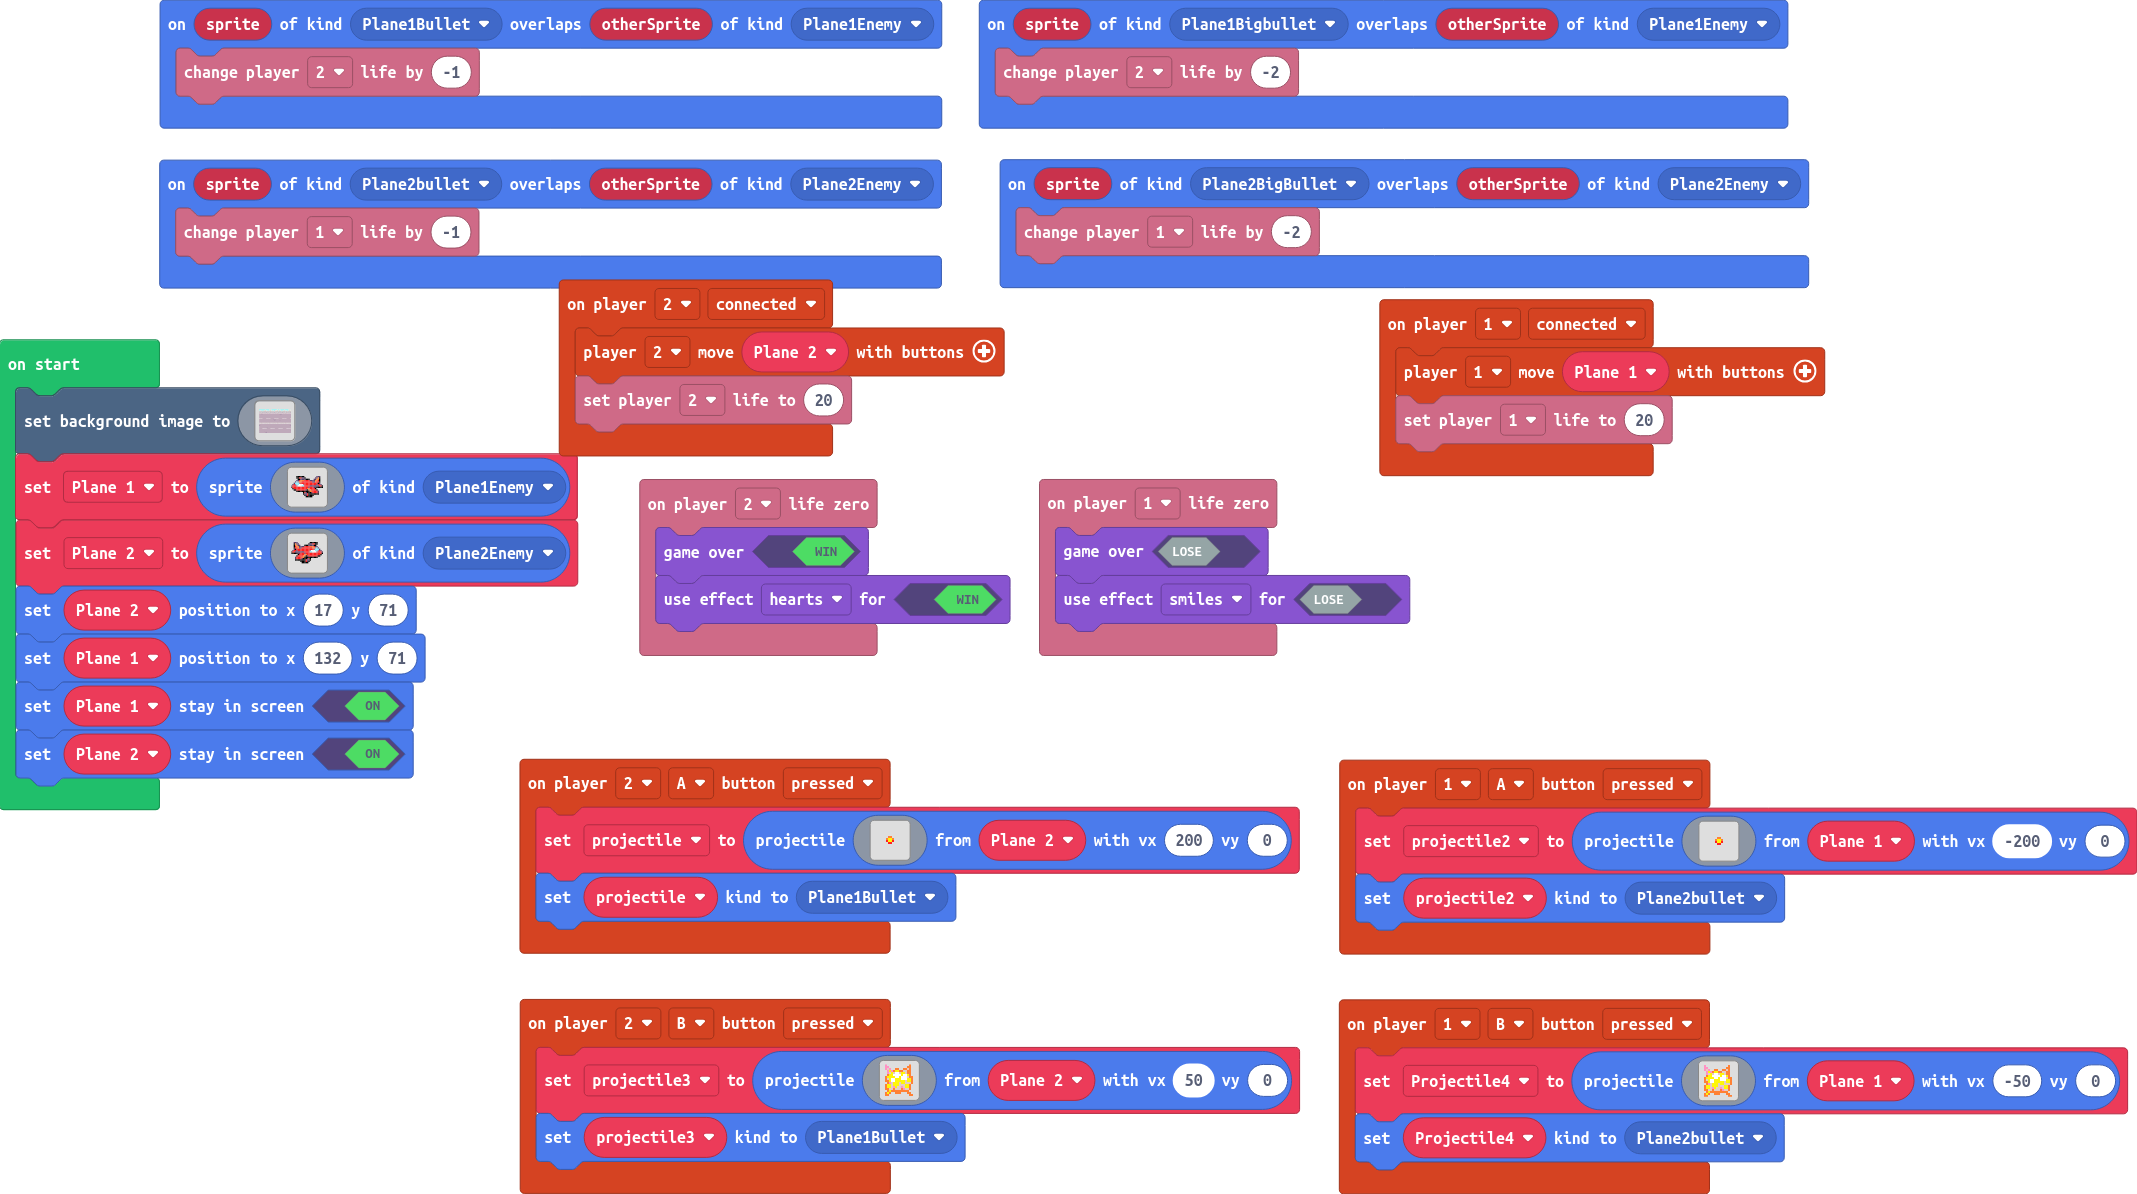
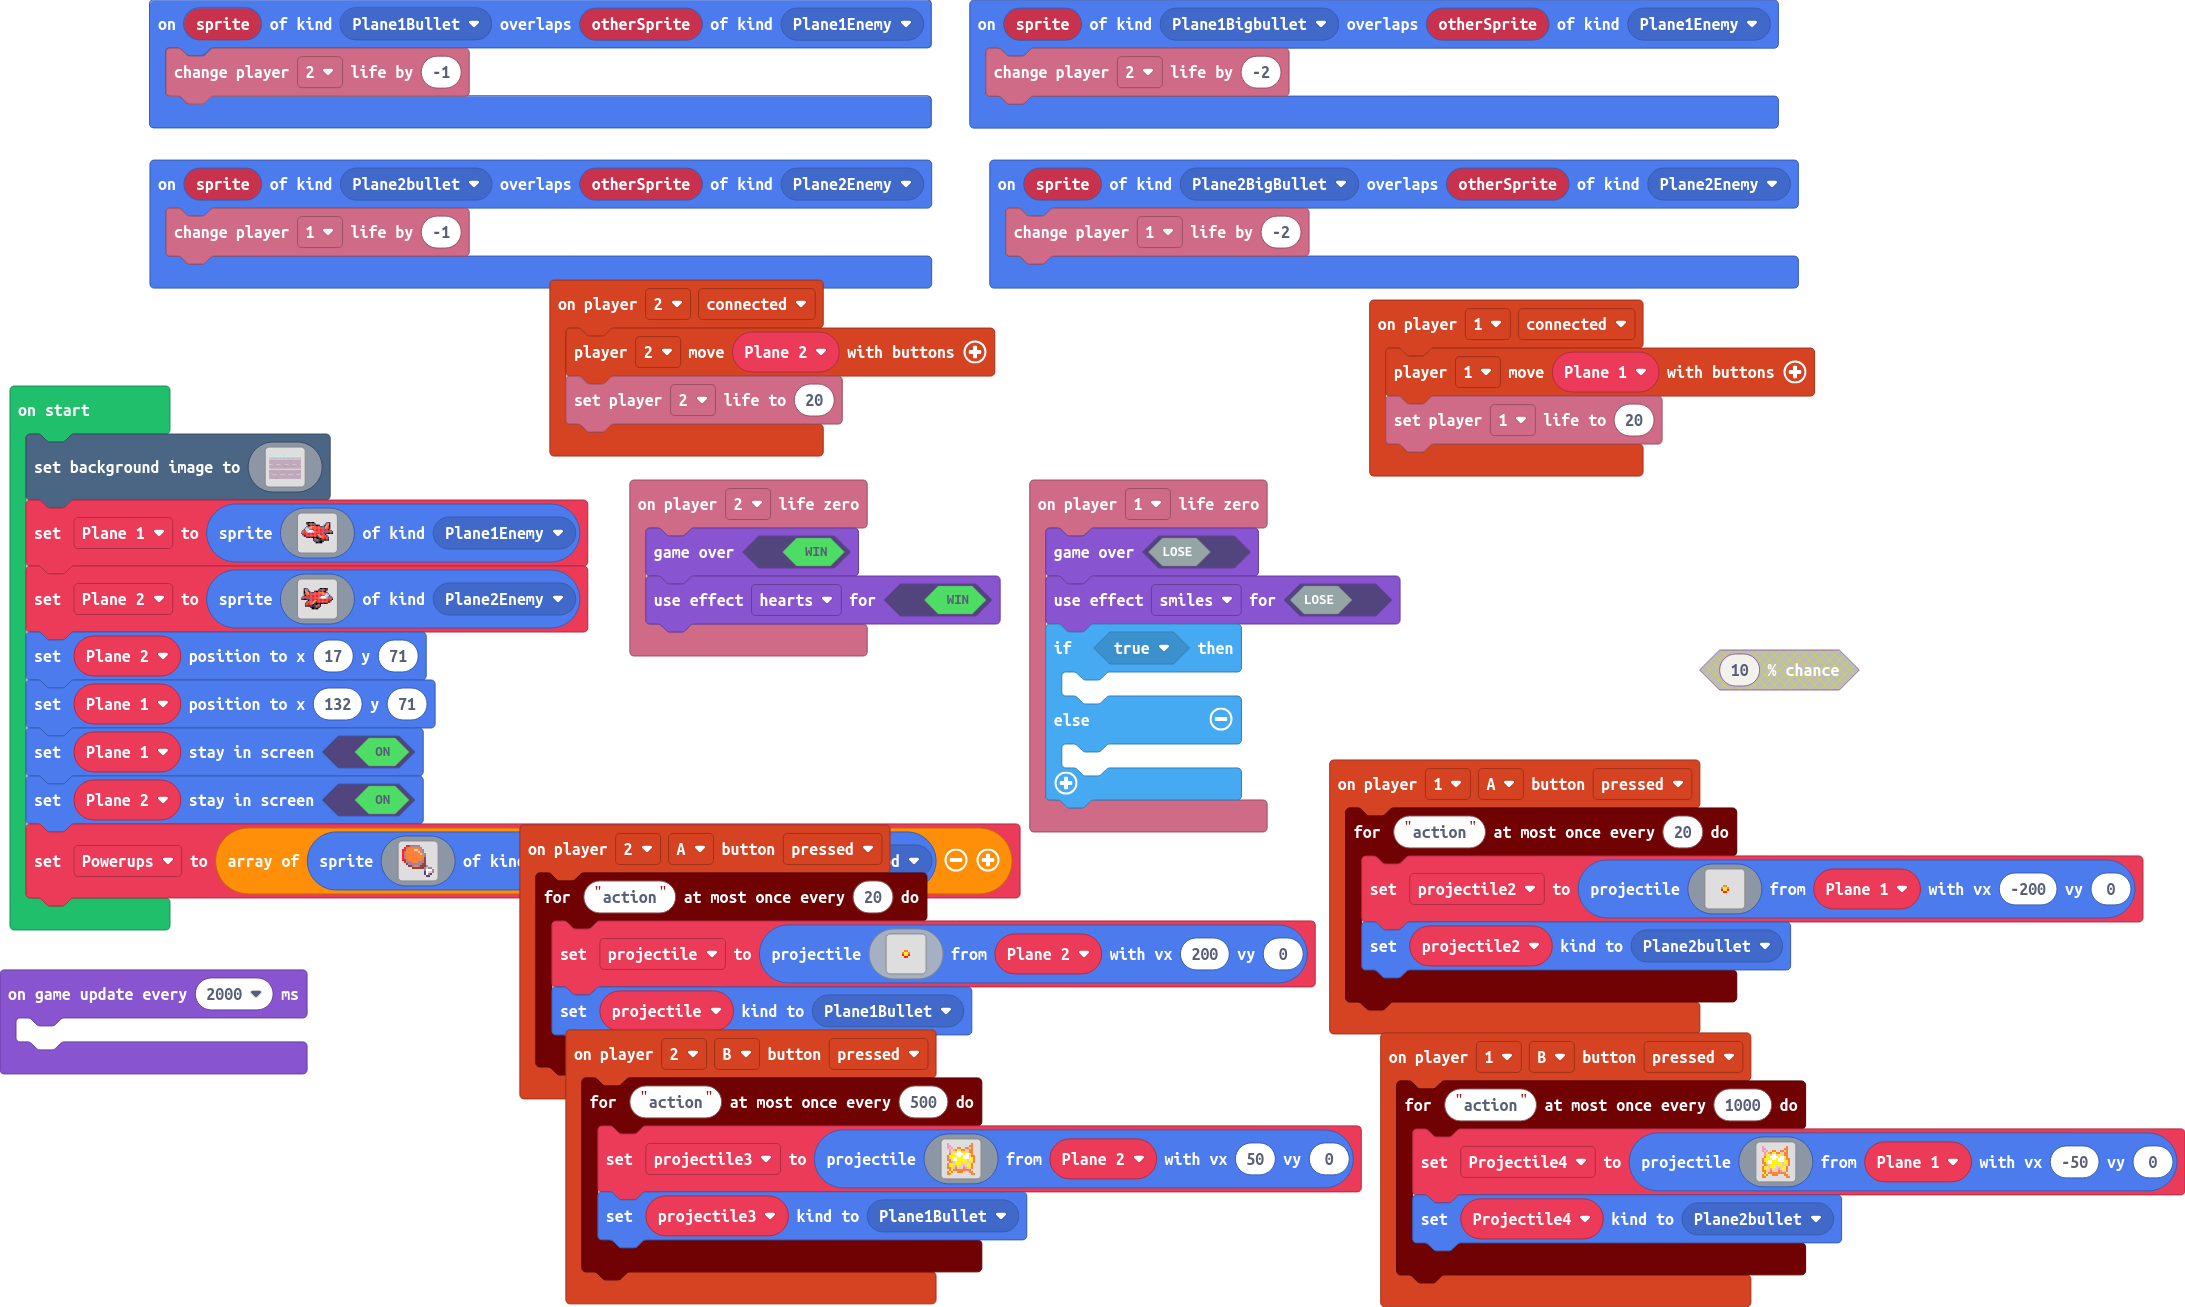
Update pxt.json, main.blocks, main.ts

diff --git a/main.ts b/main.ts
@@ -7,77 +7,88 @@ namespace SpriteKind {
     export const Plane2BigBullet = SpriteKind.create()
 }
 controller.player2.onButtonEvent(ControllerButton.B, ControllerButtonEvent.Pressed, function () {
-    projectile3 = sprites.createProjectileFromSprite(img`
-        . 3 . . . . . . . . . . . 4 . . 
-        . 3 3 . . . . . . . . . 4 4 . . 
-        . 3 d 3 . . 4 4 . . 4 4 d 4 . . 
-        . . 3 5 3 4 5 5 4 4 d d 4 4 . . 
-        . . 3 d 5 d 1 1 d 5 5 d 4 4 . . 
-        . . 4 5 5 1 1 1 1 5 1 1 5 4 . . 
-        . 4 5 5 5 5 1 1 5 1 1 1 d 4 4 . 
-        . 4 d 5 1 1 5 5 5 1 1 1 5 5 4 . 
-        . 4 4 5 1 1 5 5 5 5 5 d 5 5 4 . 
-        . . 4 3 d 5 5 5 d 5 5 d d d 4 . 
-        . 4 5 5 d 5 5 5 d d d 5 5 4 . . 
-        . 4 5 5 d 3 5 d d 3 d 5 5 4 . . 
-        . 4 4 d d 4 d d d 4 3 d d 4 . . 
-        . . 4 5 4 4 4 4 4 4 4 4 4 . . . 
-        . 4 5 4 . . 4 4 4 . . . 4 4 . . 
-        . 4 4 . . . . . . . . . . 4 4 . 
-        `, Plane_2, 50, 0)
-    projectile3.setKind(SpriteKind.Plane1Bullet)
+    timer.throttle("action", 500, function () {
+        projectile3 = sprites.createProjectileFromSprite(img`
+            . 3 . . . . . . . . . . . 4 . . 
+            . 3 3 . . . . . . . . . 4 4 . . 
+            . 3 d 3 . . 4 4 . . 4 4 d 4 . . 
+            . . 3 5 3 4 5 5 4 4 d d 4 4 . . 
+            . . 3 d 5 d 1 1 d 5 5 d 4 4 . . 
+            . . 4 5 5 1 1 1 1 5 1 1 5 4 . . 
+            . 4 5 5 5 5 1 1 5 1 1 1 d 4 4 . 
+            . 4 d 5 1 1 5 5 5 1 1 1 5 5 4 . 
+            . 4 4 5 1 1 5 5 5 5 5 d 5 5 4 . 
+            . . 4 3 d 5 5 5 d 5 5 d d d 4 . 
+            . 4 5 5 d 5 5 5 d d d 5 5 4 . . 
+            . 4 5 5 d 3 5 d d 3 d 5 5 4 . . 
+            . 4 4 d d 4 d d d 4 3 d d 4 . . 
+            . . 4 5 4 4 4 4 4 4 4 4 4 . . . 
+            . 4 5 4 . . 4 4 4 . . . 4 4 . . 
+            . 4 4 . . . . . . . . . . 4 4 . 
+            `, Plane_2, 50, 0)
+        projectile3.setKind(SpriteKind.Plane1Bullet)
+    })
 })
 sprites.onOverlap(SpriteKind.Plane1Bullet, SpriteKind.Plane1Enemy, function (sprite, otherSprite) {
     info.player2.changeLifeBy(-1)
 })
 controller.player2.onButtonEvent(ControllerButton.A, ControllerButtonEvent.Pressed, function () {
-    projectile = sprites.createProjectileFromSprite(img`
-        . . . . . . . . . . . . . . . . 
-        . . . . . . . . . . . . . . . . 
-        . . . . . . . . . . . . . . . . 
-        . . . . . . . . . . . . . . . . 
-        . . . . . . . . . . . . . . . . 
-        . . . . . . . . . . . . . . . . 
-        . . . . . . . 4 4 . . . . . . . 
-        . . . . . . 4 5 5 4 . . . . . . 
-        . . . . . . 2 5 5 2 . . . . . . 
-        . . . . . . . 2 2 . . . . . . . 
-        . . . . . . . . . . . . . . . . 
-        . . . . . . . . . . . . . . . . 
-        . . . . . . . . . . . . . . . . 
-        . . . . . . . . . . . . . . . . 
-        . . . . . . . . . . . . . . . . 
-        . . . . . . . . . . . . . . . . 
-        `, Plane_2, 200, 0)
-    projectile.setKind(SpriteKind.Plane1Bullet)
+    timer.throttle("action", 20, function () {
+        projectile = sprites.createProjectileFromSprite(img`
+            . . . . . . . . . . . . . . . . 
+            . . . . . . . . . . . . . . . . 
+            . . . . . . . . . . . . . . . . 
+            . . . . . . . . . . . . . . . . 
+            . . . . . . . . . . . . . . . . 
+            . . . . . . . . . . . . . . . . 
+            . . . . . . . 4 4 . . . . . . . 
+            . . . . . . 4 5 5 4 . . . . . . 
+            . . . . . . 2 5 5 2 . . . . . . 
+            . . . . . . . 2 2 . . . . . . . 
+            . . . . . . . . . . . . . . . . 
+            . . . . . . . . . . . . . . . . 
+            . . . . . . . . . . . . . . . . 
+            . . . . . . . . . . . . . . . . 
+            . . . . . . . . . . . . . . . . 
+            . . . . . . . . . . . . . . . . 
+            `, Plane_2, 200, 0)
+        projectile.setKind(SpriteKind.Plane1Bullet)
+    })
 })
 sprites.onOverlap(SpriteKind.Plane2BigBullet, SpriteKind.Plane2Enemy, function (sprite, otherSprite) {
     info.player1.changeLifeBy(-2)
 })
 controller.player1.onButtonEvent(ControllerButton.A, ControllerButtonEvent.Pressed, function () {
-    projectile2 = sprites.createProjectileFromSprite(img`
-        . . . . . . . . . . . . . . . . 
-        . . . . . . . . . . . . . . . . 
-        . . . . . . . . . . . . . . . . 
-        . . . . . . . . . . . . . . . . 
-        . . . . . . . . . . . . . . . . 
-        . . . . . . . . . . . . . . . . 
-        . . . . . . . 4 4 . . . . . . . 
-        . . . . . . 4 5 5 4 . . . . . . 
-        . . . . . . 2 5 5 2 . . . . . . 
-        . . . . . . . 2 2 . . . . . . . 
-        . . . . . . . . . . . . . . . . 
-        . . . . . . . . . . . . . . . . 
-        . . . . . . . . . . . . . . . . 
-        . . . . . . . . . . . . . . . . 
-        . . . . . . . . . . . . . . . . 
-        . . . . . . . . . . . . . . . . 
-        `, Plane_1, -200, 0)
-    projectile2.setKind(SpriteKind.Plane2bullet)
+    timer.throttle("action", 20, function () {
+        projectile2 = sprites.createProjectileFromSprite(img`
+            . . . . . . . . . . . . . . . . 
+            . . . . . . . . . . . . . . . . 
+            . . . . . . . . . . . . . . . . 
+            . . . . . . . . . . . . . . . . 
+            . . . . . . . . . . . . . . . . 
+            . . . . . . . . . . . . . . . . 
+            . . . . . . . 4 4 . . . . . . . 
+            . . . . . . 4 5 5 4 . . . . . . 
+            . . . . . . 2 5 5 2 . . . . . . 
+            . . . . . . . 2 2 . . . . . . . 
+            . . . . . . . . . . . . . . . . 
+            . . . . . . . . . . . . . . . . 
+            . . . . . . . . . . . . . . . . 
+            . . . . . . . . . . . . . . . . 
+            . . . . . . . . . . . . . . . . 
+            . . . . . . . . . . . . . . . . 
+            `, Plane_1, -200, 0)
+        projectile2.setKind(SpriteKind.Plane2bullet)
+    })
 })
 info.player1.onLifeZero(function () {
     game.gameOver(false)
     game.setGameOverEffect(false, effects.smiles)
+    if (true) {
+    	
+    } else {
+    	
+    }
 })
 info.player2.onLifeZero(function () {
     game.gameOver(true)
@@ -88,25 +99,27 @@ controller.player2.onEvent(ControllerEvent.Connected, function () {
     info.player2.setLife(20)
 })
 controller.player1.onButtonEvent(ControllerButton.B, ControllerButtonEvent.Pressed, function () {
-    Projectile4 = sprites.createProjectileFromSprite(img`
-        . 3 . . . . . . . . . . . 4 . . 
-        . 3 3 . . . . . . . . . 4 4 . . 
-        . 3 d 3 . . 4 4 . . 4 4 d 4 . . 
-        . . 3 5 3 4 5 5 4 4 d d 4 4 . . 
-        . . 3 d 5 d 1 1 d 5 5 d 4 4 . . 
-        . . 4 5 5 1 1 1 1 5 1 1 5 4 . . 
-        . 4 5 5 5 5 1 1 5 1 1 1 d 4 4 . 
-        . 4 d 5 1 1 5 5 5 1 1 1 5 5 4 . 
-        . 4 4 5 1 1 5 5 5 5 5 d 5 5 4 . 
-        . . 4 3 d 5 5 5 d 5 5 d d d 4 . 
-        . 4 5 5 d 5 5 5 d d d 5 5 4 . . 
-        . 4 5 5 d 3 5 d d 3 d 5 5 4 . . 
-        . 4 4 d d 4 d d d 4 3 d d 4 . . 
-        . . 4 5 4 4 4 4 4 4 4 4 4 . . . 
-        . 4 5 4 . . 4 4 4 . . . 4 4 . . 
-        . 4 4 . . . . . . . . . . 4 4 . 
-        `, Plane_1, -50, 0)
-    Projectile4.setKind(SpriteKind.Plane2bullet)
+    timer.throttle("action", 1000, function () {
+        Projectile4 = sprites.createProjectileFromSprite(img`
+            . 3 . . . . . . . . . . . 4 . . 
+            . 3 3 . . . . . . . . . 4 4 . . 
+            . 3 d 3 . . 4 4 . . 4 4 d 4 . . 
+            . . 3 5 3 4 5 5 4 4 d d 4 4 . . 
+            . . 3 d 5 d 1 1 d 5 5 d 4 4 . . 
+            . . 4 5 5 1 1 1 1 5 1 1 5 4 . . 
+            . 4 5 5 5 5 1 1 5 1 1 1 d 4 4 . 
+            . 4 d 5 1 1 5 5 5 1 1 1 5 5 4 . 
+            . 4 4 5 1 1 5 5 5 5 5 d 5 5 4 . 
+            . . 4 3 d 5 5 5 d 5 5 d d d 4 . 
+            . 4 5 5 d 5 5 5 d d d 5 5 4 . . 
+            . 4 5 5 d 3 5 d d 3 d 5 5 4 . . 
+            . 4 4 d d 4 d d d 4 3 d d 4 . . 
+            . . 4 5 4 4 4 4 4 4 4 4 4 . . . 
+            . 4 5 4 . . 4 4 4 . . . 4 4 . . 
+            . 4 4 . . . . . . . . . . 4 4 . 
+            `, Plane_1, -50, 0)
+        Projectile4.setKind(SpriteKind.Plane2bullet)
+    })
 })
 sprites.onOverlap(SpriteKind.Plane1Bigbullet, SpriteKind.Plane1Enemy, function (sprite, otherSprite) {
     info.player2.changeLifeBy(-2)
@@ -286,3 +299,57 @@ Plane_2.setPosition(17, 71)
 Plane_1.setPosition(132, 71)
 Plane_1.setStayInScreen(true)
 Plane_2.setStayInScreen(true)
+let Powerups = [sprites.create(img`
+    . . 2 2 b b b b b . . . . . . . 
+    . 2 b 4 4 4 4 4 4 b . . . . . . 
+    2 2 4 4 4 4 d d 4 4 b . . . . . 
+    2 b 4 4 4 4 4 4 d 4 b . . . . . 
+    2 b 4 4 4 4 4 4 4 d 4 b . . . . 
+    2 b 4 4 4 4 4 4 4 4 4 b . . . . 
+    2 b 4 4 4 4 4 4 4 4 4 e . . . . 
+    2 2 b 4 4 4 4 4 4 4 b e . . . . 
+    . 2 b b b 4 4 4 b b b e . . . . 
+    . . e b b b b b b b e e . . . . 
+    . . . e e b 4 4 b e e e b . . . 
+    . . . . . e e e e e e b d b b . 
+    . . . . . . . . . . . b 1 1 1 b 
+    . . . . . . . . . . . c 1 d d b 
+    . . . . . . . . . . . c 1 b c . 
+    . . . . . . . . . . . . c c . . 
+    `, SpriteKind.Food), sprites.create(img`
+    ..............bbbbbbb...........
+    ...........bb66663333baa........
+    .........bb3367776333663aa......
+    ........b33333888333389633aa....
+    .......b3333333333333389633aa...
+    ......b34443333333333338633bae..
+    .....b3455433333333334443333ae..
+    ....b33322333dddd3333455233daee.
+    ...b3d333333dd3bbbb33322333dabe.
+    ..b3d333333d3bb33bb33333333da4e.
+    ..bd33333333b33aab3333333223a4ee
+    .b3d3663333b33aab33366332442b4ee
+    .bd3b983333a3aa3333387633ee3b4ee
+    .bd6983333baaa333333387633bb4bee
+    b3d6833333bba333333333863ba44ebe
+    bdd3333333bb3333333333333a44bebe
+    add666633333322333366333ba44bbbe
+    ad67776333332442336983d3a444b4e.
+    add888b333333ee3369833d3a44b44e.
+    add333333333333336833d3a444b4e..
+    a3dd3333344433333dddd3a444b44e..
+    ab33ddd325543333dd33aa444b44e...
+    .eabb3dd32233333baaa4444b44e....
+    .ebabb3d333d33baa444443b44e.....
+    ..ebaab3ddd3aaa4444433b44e......
+    ..eebbaab33a44444333b444e.......
+    ...eeebbaab444b333b4444e........
+    ....ebeeebbbbbbbb4444ee.........
+    .....eebbbb44444444ee...........
+    .......eeebbb444eee.............
+    ..........eeeeee................
+    ................................
+    `, SpriteKind.Food)]
+game.onUpdateInterval(2000, function () {
+	
+})
